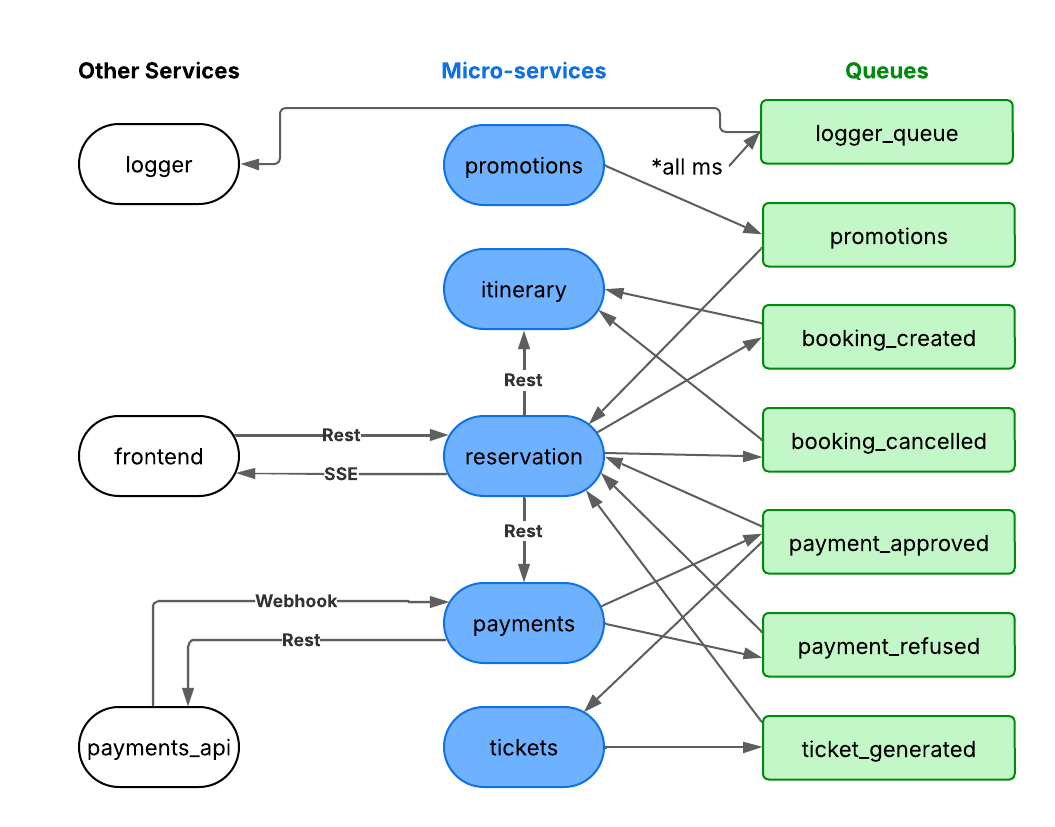
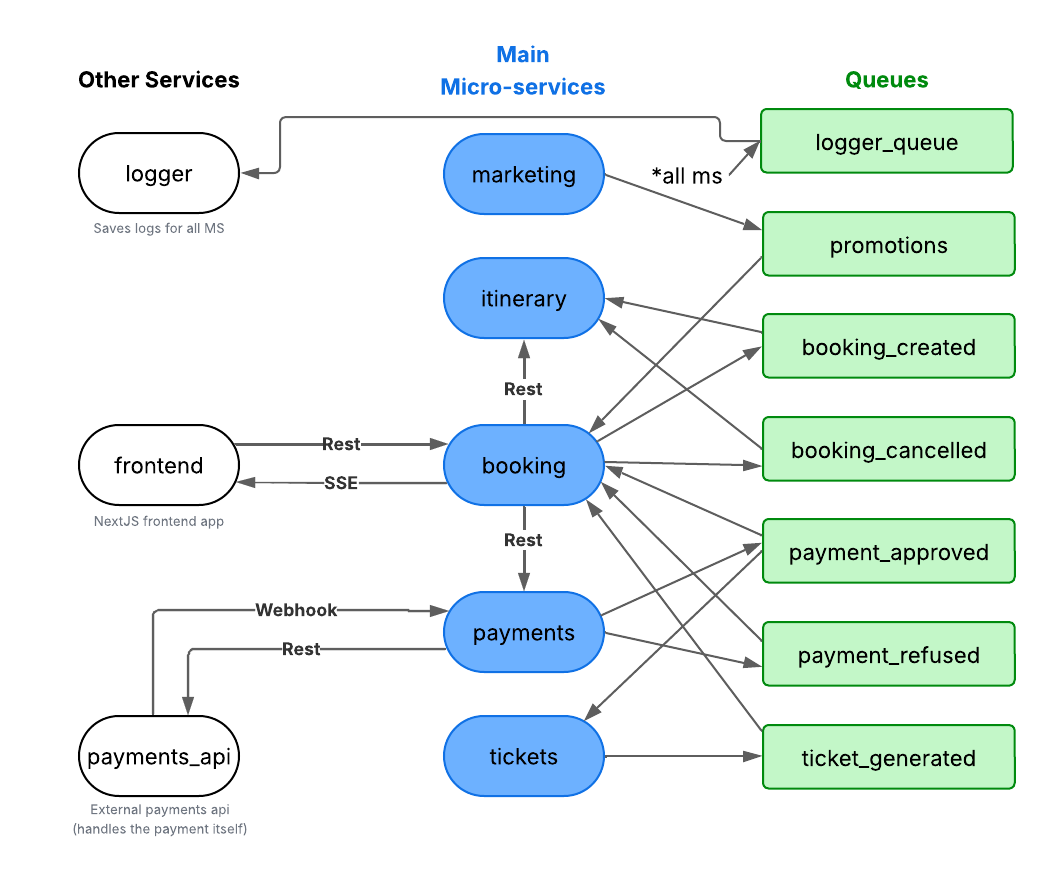
fix: update routing key names and improve booking registration logic

diff --git a/itinerary/app/core/rabbitmq.py b/itinerary/app/core/rabbitmq.py
@@ -48,7 +48,7 @@ class RabbitMQManager:
         self._channel.queue_bind(
             exchange="direct",
             queue=queue_name,
-            routing_key=current_app.config['BOOKING_CREATED_ROUTING_KEY']
+            routing_key=current_app.config['BOOKING_CREATED_ROUTINGKEY']
         )
 
         # Booking Cancelled Queue
@@ -57,7 +57,7 @@ class RabbitMQManager:
         self._channel.queue_bind(
             exchange="direct",
             queue=queue_name,
-            routing_key=current_app.config['BOOKING_CANCELLED_ROUTING_KEY']
+            routing_key=current_app.config['BOOKING_CANCELLED_ROUTINGKEY']
         )
 
         print("Exchanges and queues setup complete")
@@ -97,12 +97,16 @@ class RabbitMQManager:
         try:
             print("Booking created received")
             data = json.loads(body)
-            DataManager().register_booking(
-                destination_id=data['itinerary_id'],
-                cabins=data['cabins']
+            result = DataManager().register_booking(
+                destination_id=data['destination_id'],
+                cabins=data['number_of_cabins']
             )
-            ch.basic_ack(delivery_tag=method.delivery_tag)
-            print("Booking created processed")
+            if result:
+                ch.basic_ack(delivery_tag=method.delivery_tag)
+                print("Booking created processed")
+            else:
+                ch.basic_nack(delivery_tag=method.delivery_tag)
+                print("Booking created not processed")
         except Exception as e:
             print(f"Error handling booking created: {e}")
             ch.basic_nack(delivery_tag=method.delivery_tag)
@@ -111,12 +115,16 @@ class RabbitMQManager:
         try:
             print("Booking cancelled received")
             data = json.loads(body)
-            DataManager().register_cancellation(
-                destination_id=data['itinerary_id'],
-                cabins=data['cabins']
+            result = DataManager().register_cancellation(
+                destination_id=data['destination_id'],
+                cabins=data['number_of_cabins']
             )
-            ch.basic_ack(delivery_tag=method.delivery_tag)
-            print("Booking cancelled processed")
+            if result:
+                ch.basic_ack(delivery_tag=method.delivery_tag)
+                print("Booking cancelled processed")
+            else:
+                ch.basic_nack(delivery_tag=method.delivery_tag)
+                print("Booking cancelled not processed")
         except Exception as e:
             print(f"Error handling booking cancelled: {e}")
             ch.basic_nack(delivery_tag=method.delivery_tag)

diff --git a/itinerary/app/config.py b/itinerary/app/config.py
@@ -11,8 +11,8 @@ class Config:
     
     # Routing Keys
     LOGS_ROUTINGKEY = os.getenv("LOGS_ROUTINGKEY")
-    BOOKING_CREATED_ROUTING_KEY = os.getenv("BOOKING_CREATED_ROUTING_KEY")
-    BOOKING_CANCELLED_ROUTING_KEY = os.getenv("BOOKING_CANCELLED_ROUTING_KEY")
+    BOOKING_CREATED_ROUTINGKEY = os.getenv("BOOKING_CREATED_ROUTINGKEY")
+    BOOKING_CANCELLED_ROUTINGKEY = os.getenv("BOOKING_CANCELLED_ROUTINGKEY")
 
     # API Keys
     ITINERARY_MS_PORT = os.getenv("ITINERARY_MS_PORT")
@@ -25,8 +25,8 @@ class Config:
             cls.RABBITMQ_HOST,
             cls.RABBITMQ_PORT,
             cls.LOGS_ROUTINGKEY,
-            cls.BOOKING_CREATED_ROUTING_KEY,
-            cls.BOOKING_CANCELLED_ROUTING_KEY,
+            cls.BOOKING_CREATED_ROUTINGKEY,
+            cls.BOOKING_CANCELLED_ROUTINGKEY,
             cls.ITINERARY_MS_PORT
         ]
         if not all(required_vars):

diff --git a/itinerary/app/core/data_manager.py b/itinerary/app/core/data_manager.py
@@ -112,7 +112,8 @@ class DataManager:
         for itinerary in self.data:
             if itinerary['id'] == destination_id:
                 itinerary['available_cabins'] -= cabins
-                break
+                return True
+        return False
 
     def register_cancellation(self, destination_id, cabins):
         """
@@ -125,4 +126,5 @@ class DataManager:
         for itinerary in self.data:
             if itinerary['id'] == destination_id:
                 itinerary['available_cabins'] += cabins
-                break
+                return True
+        return False
